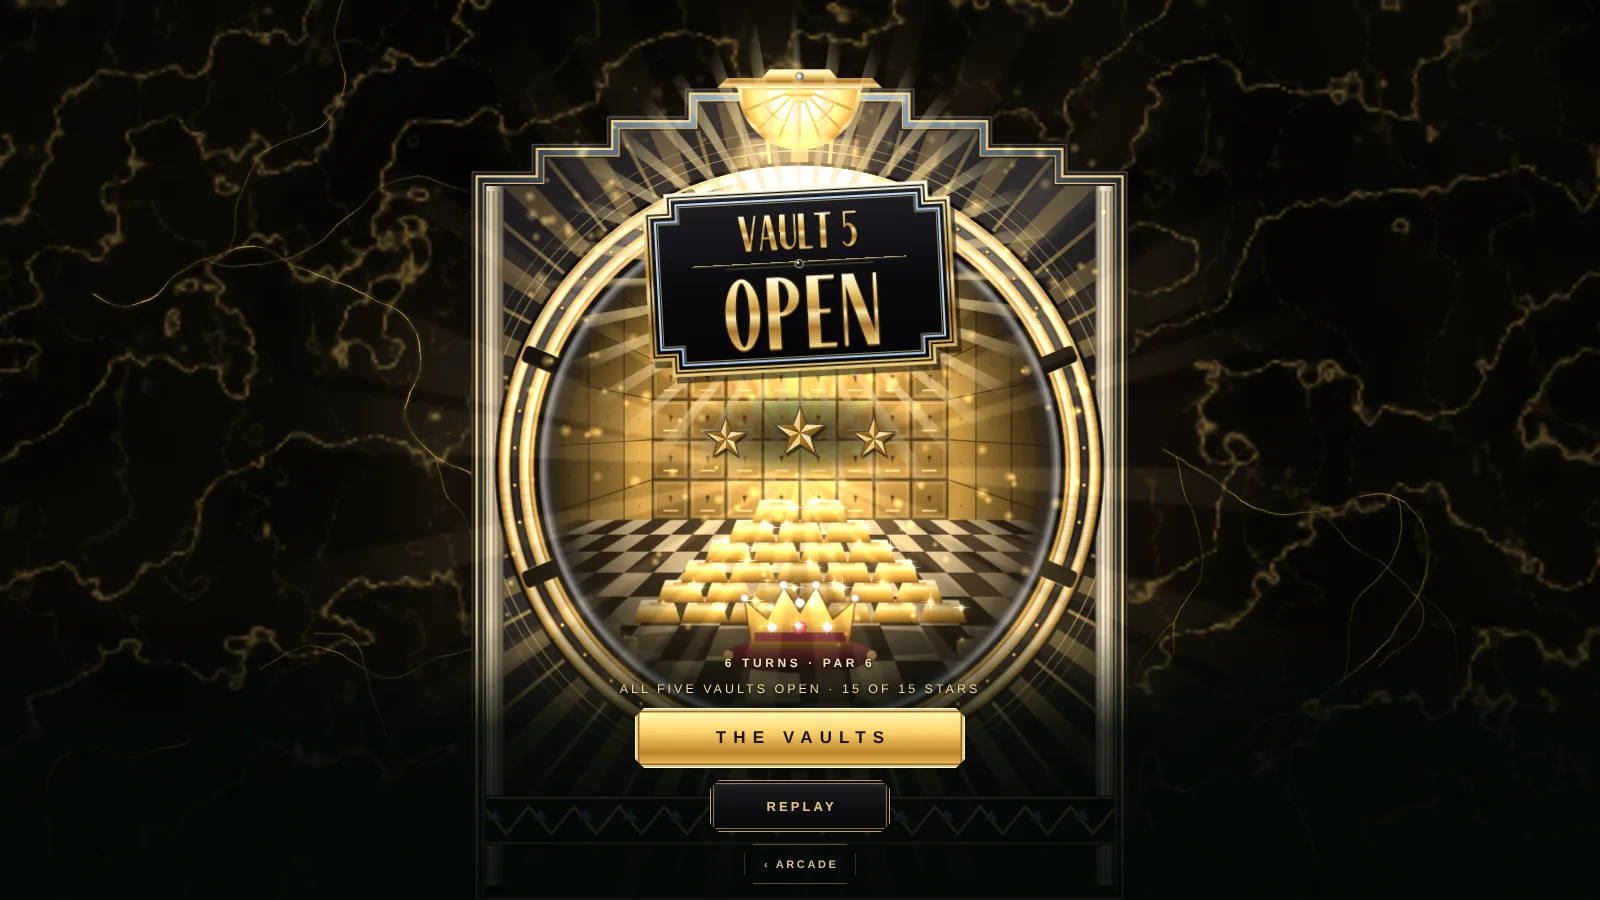
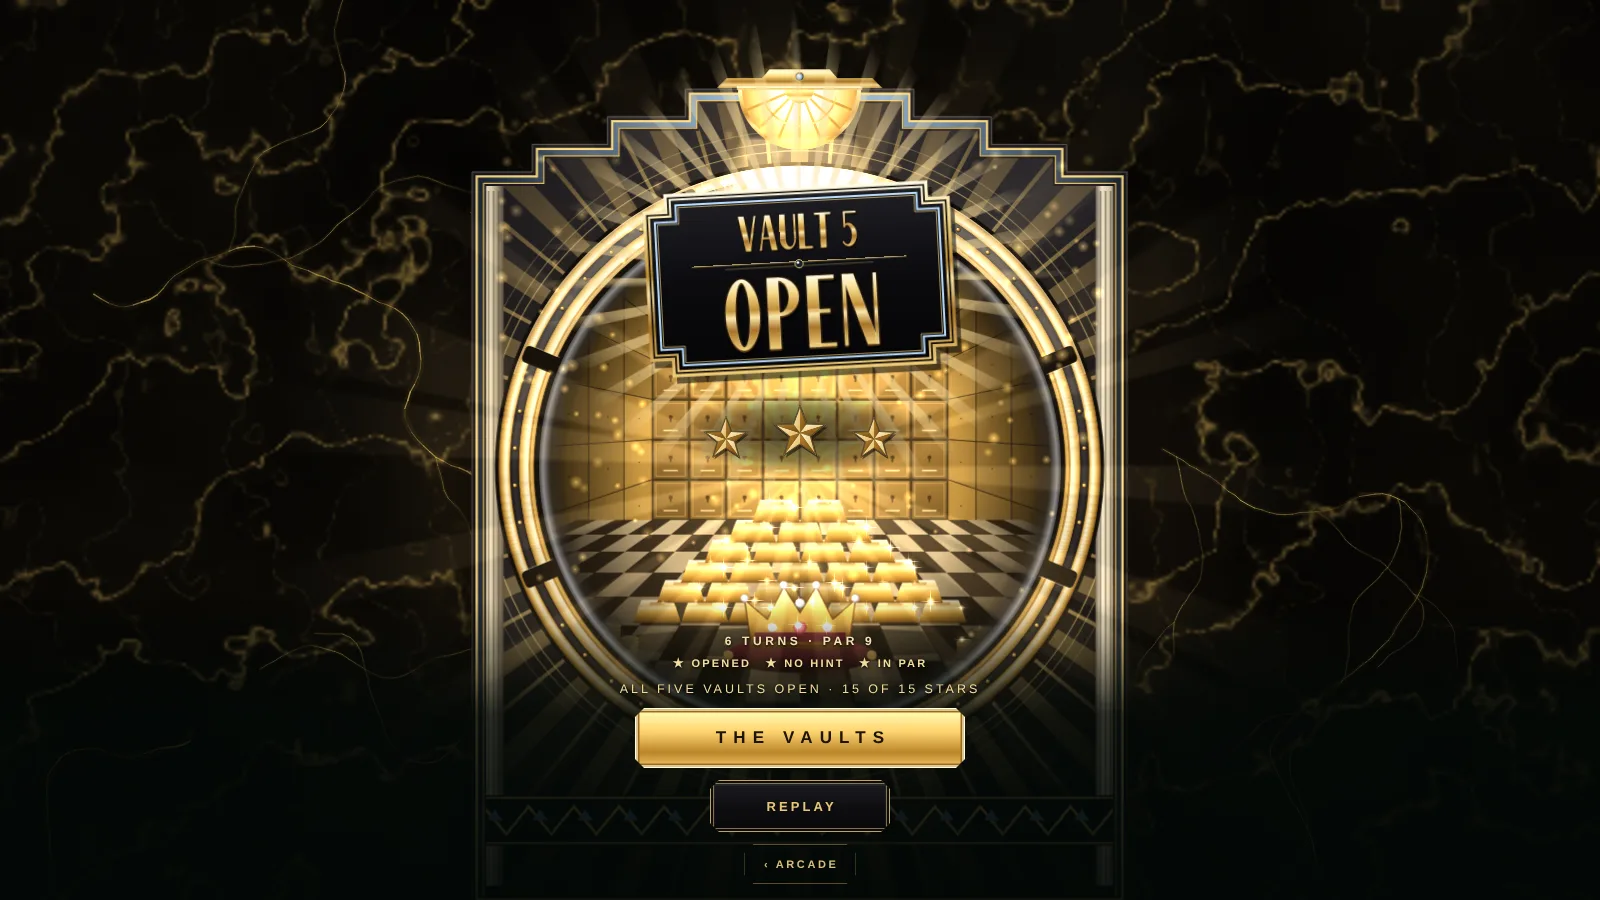
Tumbler: three stars for three goals, and a par with room for a slip
Josh found par too tight: a finger slips and the turn is gone. Each star is
now its own goal (opened, no hint, in par), the hint waits behind a button,
par is the fewest turns plus half again, and moving the same ring twice in a
row is one turn.

Claude-Session: https://claude.ai/code/session_01P3Jxyro1fb5wiXfESLS4si

diff --git a/public/games/tumbler/index.html b/public/games/tumbler/index.html
@@ -122,6 +122,11 @@ h1 svg{width:100%;height:auto;overflow:visible}
   opacity:0;transform:translateY(12px);transition:opacity .5s ease,transform .5s ease}
 #wfoot.in{opacity:1;transform:none}
 #wstat{font-size:12px;letter-spacing:.3em;text-transform:uppercase;color:#f3e2b4;text-shadow:0 1px 3px #000,0 0 10px rgba(0,0,0,.9);font-weight:600}
+#wgoals{display:flex;gap:14px;flex-wrap:wrap;justify-content:center;font-size:11px;letter-spacing:.2em;text-transform:uppercase;text-shadow:0 1px 3px #000,0 0 10px rgba(0,0,0,.9);font-weight:600;margin-top:-4px}
+#wgoals .ok{color:#f3dc9a}#wgoals .no{color:#8d7c5a}
+#btnHint[hidden]{display:none}
+#btnHint.new{animation:hintIn 1.3s ease-out 2}
+@keyframes hintIn{0%{box-shadow:0 0 0 0 rgba(243,220,154,.7)}100%{box-shadow:0 0 0 14px rgba(243,220,154,0)}}
 .wbtns{display:flex;gap:10px;flex-wrap:wrap;justify-content:center}
 .wbtns .btn{min-width:0;flex:1 1 0;max-width:180px;font-size:13px;letter-spacing:.24em;padding:0 12px 0 calc(12px + .24em);height:52px}
 .wbtns{width:100%;flex-wrap:nowrap}
@@ -200,6 +205,7 @@ body.land #btnNext{height:48px;font-size:13px}
 <div id="hud">
   <a id="back" class="pill live" href="/games">‹&nbsp;Arcade</a>
   <div class="tr live">
+    <button id="btnHint" class="round" aria-label="Hint (costs one star)" hidden><svg viewBox="0 0 24 24"><path d="M9.2 9.3a2.9 2.9 0 1 1 4.3 2.5c-.9.5-1.5 1.2-1.5 2.2v.6"/><path d="M12 18.2v.1"/><circle cx="12" cy="12" r="9.2"/></svg></button>
     <button id="btnRestart" class="round" aria-label="Restart level"><svg viewBox="0 0 24 24"><path d="M4.5 12a7.5 7.5 0 1 0 2.2-5.3"/><path d="M4.5 4.2v4.6h4.6"/></svg></button>
     <button id="btnSound" class="round" aria-label="Sound" aria-pressed="true"><svg viewBox="0 0 24 24"><path d="M4 9.5h3l5-4v13l-5-4H4z"/><path class="w1" d="M15.5 9.2a4 4 0 0 1 0 5.6"/><path class="w2" d="M18 6.7a7.4 7.4 0 0 1 0 10.6"/><path class="x" d="M16 9.5l5 5M21 9.5l-5 5"/></svg></button>
   </div>
@@ -229,7 +235,7 @@ body.land #btnNext{height:48px;font-size:13px}
 <section id="win" class="screen" aria-live="polite">
   <div id="stamp"><svg id="stampSvg" role="img" aria-label="Vault 1 Open"></svg></div>
   <div id="stars"></div>
-  <div id="wfoot"><div id="wstat"></div><div id="wfin"></div>
+  <div id="wfoot"><div id="wstat"></div><div id="wgoals"></div><div id="wfin"></div>
     <button id="btnNext" class="btn big">Next vault</button>
     <div class="wbtns"><button id="btnReplay" class="btn">Replay</button><button id="btnVaults" class="btn">Vaults</button></div>
     <a class="btn ghost" href="/games">‹ Arcade</a></div>
@@ -1072,7 +1078,7 @@ function setLoops(dt){if(!AU.ctx)return;const t=T0();
 
 /* ================= state ================= */
 const ST={phase:'title',time:0,rings:[],turns:0,depth:0,stars:0,junctions:new Set(),prevSig:'',glow:[],entryGlow:false,
-  ghost:{on:false,t:0},tip:{text:'',t:0},hint:0,touchedPair:false,gearTipShown:false,taught:{},lead:-1,latchV:[],latchFl:[],latchFree:[],
+  ghost:{on:false,t:0},tip:{text:'',t:0},hint:0,hintUsed:false,lastComp:-1,touchedPair:false,gearTipShown:false,taught:{},lead:-1,latchV:[],latchFl:[],latchFree:[],
   ball:{x:0,y:-CRADLE,v:0,s:0,path:null,len:0,scale:1,dark:0,shake:0,lastSeam:-1},win:{t:0,bolt:[0,0,0,0,0,0,0,0],phi:0,open:0,leak:0,boltsDone:0,fanfare:false,stamped:false},
   shake:0,settleT:0,intro:0,camFrom:null,flash:[]};
 function initRings(){ST.rings=LEVEL.start.map((p,i)=>({ang:p*NOTCH,prevAng:p*NOTCH,omega:0,vel:0,target:p*NOTCH,phys:false,drag:false,notch:p,hl:0,hlE:0}))}
@@ -1141,9 +1147,16 @@ function release(e){
   const s=DR.samples,a0=s[0],a1=s[s.length-1],dt=Math.max(16,a1.t-a0.t)/1000;let v=(a1.a-a0.a)/dt;if(performance.now()-a1.t>90)v=0;
   const fl=clamp(v/DR.k*.1,-NOTCH*2.4,NOTCH*2.4)*DR.k,proj=RD.ang+fl,tn=Math.round(proj/NOTCH);
   RD.target=tn*NOTCH;RD.vel=clamp(v*.35,-8,8);RD.phys=true;
-  if(mod(tn-DR.startNotch,COMPS[COMP[i]].period)!==0){ST.turns++;setTurns();onTurn(i)}
+  if(mod(tn-DR.startNotch,COMPS[COMP[i]].period)!==0)countTurn(i);
   DR=null;
 }
+// One turn is one ring, or one geared train, moved. Reaching for the same ring again
+// straight away (to fix a slip of the finger) is still that turn: the solver counts the
+// same way, since two moves of one ring in a row are one move (Josh, 2026-11-17).
+let sameTold=false;
+function countTurn(i){const c=COMP[i];
+  if(c===ST.lastComp){if(!sameTold){sameTold=true;tip('Same ring again · still one turn','',3)}return}
+  ST.lastComp=c;ST.turns++;setTurns();onTurn(i)}
 cv.addEventListener('pointerup',release);cv.addEventListener('pointercancel',release);cv.addEventListener('lostpointercapture',e=>{if(DR&&e.pointerId===DR.id)release(e)});
 function teachGear(i){
   if(CUR===0){if(!ST.gearTipShown){ST.gearTipShown=true;tip('Geared rings turn together','em',3.6)}return}
@@ -1156,10 +1169,16 @@ function latchBlocked(c){
 function onTurn(i){
   if($('tip').textContent.indexOf('Drag')===0)tip('');
   if(GEAR[i])ST.touchedPair=true;
-  const H=LEVEL.hints||['Find where the geared gaps meet','Then bring the outer ring’s curve to it'];
-  if(ST.turns>=9&&ST.depth<NR-1&&ST.hint<1){ST.hint=1;tip(H[0],'em',6)}
-  else if(ST.turns>=16&&ST.depth<NR-1&&ST.hint<2){ST.hint=2;tip(H[1],'em',7)}
+  if(ST.turns>=9&&ST.depth<NR-1)offerHint();
 }
+// Hints wait behind a button that turns up after nine turns. Using one costs the
+// no-hint star, so asking for help is the player's choice (Josh, 2026-11-17).
+const hintsOf=()=>LEVEL.hints||['Find where the geared gaps meet','Then bring the outer ring’s curve to it'];
+function offerHint(){const b=$('btnHint');if(!b.hidden)return;b.hidden=false;b.classList.add('new');setTimeout(()=>b.classList.remove('new'),2700);
+  tip('Stuck? Tap ? · costs one star','',4)}
+function useHint(){if(ST.phase!=='play')return false;const H=hintsOf(),k=Math.min(ST.hint,H.length-1);
+  ST.hintUsed=true;ST.hint=Math.min(ST.hint+1,H.length);$('btnHint').hidden=false;tip(H[k],'em',7);return H[k]}
+$('btnHint').addEventListener('click',()=>{audioInit();SFX.ui();useHint()});
 
 /* ================= game flow ================= */
 function scramble(){ST.lead=-1;ST.rings.forEach((R,i)=>{const st=LEVEL.start[i]*NOTCH;R.target=st+Math.round((R.ang-st)/TAU)*TAU;R.drag=false});
@@ -1171,17 +1190,20 @@ function startPlay(){
   scramble();
 }
 function resetLevel(animated){
-  ST.turns=0;setTurns();ST.depth=0;setPins(0);ST.hint=0;ST.junctions=new Set();ST.prevSig='';ST.lead=-1;
+  ST.turns=0;setTurns();ST.depth=0;setPins(0);ST.hint=0;ST.hintUsed=false;ST.lastComp=-1;$('btnHint').hidden=true;ST.junctions=new Set();ST.prevSig='';ST.lead=-1;
   ST.ball={x:0,y:-CRADLE,v:0,s:0,path:null,len:0,scale:1,dark:0,shake:0,lastSeam:-1};
   ST.win={t:0,bolt:[0,0,0,0,0,0,0,0],phi:0,open:0,leak:0,boltsDone:0,fanfare:false,stamped:false};
   if(animated)scramble();
   else initRings();
 }
+// Par is the fewest turns plus half again, rounded up: room for a slip or two once
+// you know the way (Josh, 2026-11-17). The solver's fewest stays in SOLVE.par.
+const parFor=f=>f+Math.ceil(f/2);let PARN=3;
 // switch the whole vault: tables, solver, look
 function loadLevel(n){
   CUR=clamp(n,0,LEVELS.length-1);const L=LEVELS[CUR];setLevelTables(L);TH=L.theme;RSTY=L.theme.rings||RSTY1;levelGeometry();
   SOLVE=SOLVES[CUR]||(SOLVES[CUR]=solveBFS());ST.latchV=LATCH.map(()=>0);ST.latchFl=LATCH.map(()=>0);ST.latchFree=LATCH.map(()=>false);ST.taught={};
-  ST.glow=[];ST.ghost.on=false;ST.hint=0;initRings();buildPins();$('parN').textContent='Par '+SOLVE.par;resetLevel(false);
+  ST.glow=[];ST.ghost.on=false;ST.hint=0;initRings();buildPins();PARN=parFor(SOLVE.par);$('parN').textContent='Par '+PARN;resetLevel(false);
   if(W)buildAssets();buildStampSVG();
   document.querySelector('meta[name="theme-color"]').setAttribute('content',TH.bg);
   cv.setAttribute('aria-label','An Art Deco vault door with '+['','','two','three','four','five'][NR]+' turning rings around a keyhole: '+L.name+(L.room?', '+L.room:''));
@@ -1204,7 +1226,8 @@ $('btnLobby').addEventListener('click',()=>{audioInit();SFX.ui();$('select').cla
 $('btnEnter').addEventListener('click',()=>{if(SEL<PROG.open)enterLevel(SEL);else{SFX.held();haptic([8,40,8])}});
 $('btnNext').addEventListener('click',()=>{if(CUR<LEVELS.length-1)enterLevel(CUR+1);else showSelect(true)});
 $('btnVaults').addEventListener('click',()=>showSelect(true));
-$('btnRestart').addEventListener('click',()=>{audioInit();SFX.ui();if(ST.phase!=='play')return;DR=null;resetLevel(true);tip('')});
+$('btnRestart').addEventListener('click',()=>{audioInit();SFX.ui();if(ST.phase!=='play')return;DR=null;
+  const used=ST.hintUsed,seen=ST.hint;resetLevel(true);tip('');if(used){ST.hintUsed=true;ST.hint=seen;$('btnHint').hidden=false}});   // a hint you've had stays had
 $('btnSound').addEventListener('click',()=>{audioInit();MUTED=!MUTED;try{localStorage.setItem('tumbler.muted',MUTED?'1':'0')}catch(e){}
   $('btnSound').setAttribute('aria-pressed',String(!MUTED));if(AU.master)AU.master.gain.setTargetAtTime(MUTED?0:.9,T0(),.05);if(!MUTED)SFX.ui()});
 $('btnSound').setAttribute('aria-pressed',String(!MUTED));
@@ -1338,7 +1361,7 @@ function update(dt){
   setLoops(dt);
 }
 function showWin(){
-  const stars=ST.turns<=SOLVE.par?3:ST.turns<=SOLVE.par+2?2:1;ST.stars=stars;hudShow(false);
+  const inPar=ST.turns<=PARN,noHint=!ST.hintUsed,stars=1+(noHint?1:0)+(inPar?1:0);ST.stars=stars;hudShow(false);
   PROG.best[CUR]=Math.max(PROG.best[CUR],stars);PROG.open=Math.max(PROG.open,Math.min(LEVELS.length,CUR+2));saveProg();SEL=Math.min(CUR+1,LEVELS.length-1);
   const fin=CUR===LEVELS.length-1;$('win').classList.toggle('finale',fin);
   $('btnNext').textContent=fin?'The vaults':'Next vault';
@@ -1346,9 +1369,11 @@ function showWin(){
   const wy=LAY.play.y,s=S,st=$('stamp'),sr=$('stars');
   if(LAND){const cx=W-SAFE.r-Math.min(330,W*.42)/2-8;st.style.left=sr.style.left=cx+'px';st.style.width='min(300px,40vw)';st.style.top=(SAFE.t+H*.3)+'px';sr.style.top=(SAFE.t+H*.3+Math.min(300,W*.4)*310/460*.42+2)+'px'}
   else{st.style.left=sr.style.left='';st.style.width='';const top=Math.max(SAFE.t+90,wy-150*s);st.style.top=top+'px';sr.style.top=(top+Math.min(W*.86,380)*310/460*.42+6)+'px'}
-  $('wstat').textContent=ST.turns+(ST.turns===1?' turn':' turns')+' · par '+SOLVE.par;
+  $('wstat').textContent=ST.turns+(ST.turns===1?' turn':' turns')+' · par '+PARN;
+  $('wgoals').innerHTML=[[1,'Opened'],[noHint,'No hint'],[inPar,'In par']].map(([ok,t])=>'<span class="'+(ok?'ok':'no')+'">'+(ok?'★':'☆')+'&nbsp;'+t+'</span>').join('');
   $('win').classList.add('show');ST.shake=6;haptic(40);
-  const els=[...document.querySelectorAll('.star')];els.forEach((el,k)=>{el.classList.toggle('earned',k<stars);setTimeout(()=>{el.classList.add('in');if(k<stars)SFX.star(k)},650+k*300)});
+  // each star is its own goal, in the order the line under them names: opened, no hint, in par
+  const got=[true,noHint,inPar],els=[...document.querySelectorAll('.star')];els.forEach((el,k)=>{el.classList.toggle('earned',got[k]);setTimeout(()=>{el.classList.add('in');if(got[k])SFX.star(k)},650+k*300)});
   setTimeout(()=>$('wfoot').classList.add('in'),650+3*300+150);
 }
 
@@ -1512,7 +1537,7 @@ const levelHook=n=>{const i=clamp((n|0)-1,0,LEVELS.length-1);DR=null;clearWin();
 // __game.level is also the vault in hand (its rings, gears, start), as it always was
 Object.defineProperties(levelHook,{name:{get:()=>LEVEL.name,configurable:true},rings:{get:()=>LEVEL.rings},gears:{get:()=>LEVEL.gears},start:{get:()=>LEVEL.start},latches:{get:()=>LEVEL.latches||[]}});
 window.__game={
-  get state(){return{phase:ST.phase,rings:ST.rings.map(R=>mod(Math.round(R.ang/NOTCH),12)),turns:ST.turns,depth:ST.depth,par:SOLVE.par,stars:ST.stars,won:ST.phase==='won'||ST.phase==='swing'&&ST.win.stamped,fps:Math.round(FPS.fps),
+  get state(){return{phase:ST.phase,rings:ST.rings.map(R=>mod(Math.round(R.ang/NOTCH),12)),turns:ST.turns,depth:ST.depth,par:PARN,fewest:SOLVE.par,hintUsed:ST.hintUsed,stars:ST.stars,won:ST.phase==='won'||ST.phase==='swing'&&ST.win.stamped,fps:Math.round(FPS.fps),
     level:CUR+1,latches:LATCH.map((l,k)=>ST.latchFree[k]?'free':'held')}},
   level:levelHook,solve:()=>SOLVE,reach:p=>{const r=reach(p);return{win:r.win,depth:r.depth}},
   center:()=>({x:CAM.x,y:CAM.y,unit:S*CAM.k}),
@@ -1527,7 +1552,8 @@ window.__game={
   select:()=>showSelect(false),
   turn:(i,k)=>{if(ST.phase!=='play')return false;const c=COMP[i];if(compLocked(livePos(),c)){latchBlocked(c);return false}
     const D=COMPS[c].driver,RD=ST.rings[D],kd=Math.round(k*MULT[D]/MULT[i]);for(const j of COMPS[c].rings){ST.rings[j].phys=false;ST.rings[j].vel=0}
-    RD.target=Math.round(RD.ang/NOTCH)*NOTCH+kd*NOTCH;RD.phys=true;ST.lead=i;if(mod(kd,COMPS[c].period)){ST.turns++;setTurns();onTurn(i)}return true},
+    RD.target=Math.round(RD.ang/NOTCH)*NOTCH+kd*NOTCH;RD.phys=true;ST.lead=i;if(mod(kd,COMPS[c].period))countTurn(i);return true},
+  hint:useHint,
   play:startPlay,fps:()=>FPS.fps,frameMs:()=>({avg:+FPS.ms.toFixed(2),peak:+FPS.max.toFixed(2)}),particles:()=>PT.length,audio:()=>AU.ctx?AU.ctx.state:'none'
 };
 

diff --git a/src/data/apps.ts b/src/data/apps.ts
@@ -1349,7 +1349,7 @@ export const apps: App[] = [
     description:
       'Crack five Art Deco bank vaults from 1928. Turn the rings until a path runs from the rim to the lock, while gears turn their partners the other way and latches hold them still.',
     longDescription:
-      'A steel ball waits at the rim of a 1928 vault door. Drag a ring round, a notch at a time, until its gaps line up into one path, and the ball rolls through to the lock. The catch is the brass gears: turn one ring and its partner turns the other way, so lining one up can knock the other out. There are five vaults, and each one adds a single new trick. The second has two geared pairs. The third has a gear that runs at double speed, so its ring only stops on every other notch. The fourth has a latch that holds a pair still until you turn the outer ring away from where it belongs, and the last has two latches you have to free in the right order. Every door swings open on a different room, and par runs from three turns to six.',
+      'A steel ball waits at the rim of a 1928 vault door. Drag a ring round, a notch at a time, until its gaps line up into one path, and the ball rolls through to the lock. The catch is the brass gears: turn one ring and its partner turns the other way, so lining one up can knock the other out. There are five vaults, and each one adds a single new trick. The second has two geared pairs. The third has a gear that runs at double speed, so its ring only stops on every other notch. The fourth has a latch that holds a pair still until you turn the outer ring away from where it belongs, and the last has two latches you have to free in the right order. Every door swings open on a different room. Each vault has three stars to earn: one for opening it, one for doing it without a hint, and one for doing it in par.',
     thumbnailUrl: '/images/apps/tumbler-thumbnail.webp',
     screenshotUrls: [
       '/images/apps/tumbler-1.webp',
@@ -1361,7 +1361,7 @@ export const apps: App[] = [
     status: 'live',
     outcomes: [
       'One file of about 145 KB with no pictures or sound files in it: the gold, the lacquer, the gears and the five rooms behind the doors are all drawn in code, and every click and chime is made in the browser.',
-      'A search through every position the rings can reach sets each vault’s par: three, three, four, five and six turns. It also proves none of them starts open or opens in one turn. Of 200,000 random ten-turn tries, 640 open the first vault and none open the last two.',
+      'A search through every position the rings can reach finds the fewest turns each vault opens in: three, three, four, five and six. Par allows half as many again, and moving the same ring twice in a row counts as one turn, so a slip of the finger doesn’t cost a star. The search also proves no vault starts open or opens in one turn, and of 200,000 random ten-turn tries, none open the last two.',
       'Played to the win with real touch drags in a phone-sized browser, vaults one, three and five in par. Clearing a vault unlocks the next, and the progress is still there after a reload.',
       'It started as one of eighteen first levels I built in a day with AI agents, each on a different App Store puzzle loop with one twist of its own, and grew to five vaults.',
     ],
@@ -1386,7 +1386,11 @@ export const apps: App[] = [
             { action: 'Spin a ring', how: 'Flick it and let go.' },
             {
               action: 'Get a hint',
-              how: 'It shows one by itself after nine turns.',
+              how: 'After nine turns a ? button appears at the top. A hint costs one star.',
+            },
+            {
+              action: 'Earn the stars',
+              how: 'One for opening the vault, one for no hint, one for doing it in par. Moving the same ring again straight away is still one turn.',
             },
             { action: 'Start over', how: 'Tap the restart button at the top.' },
           ],
